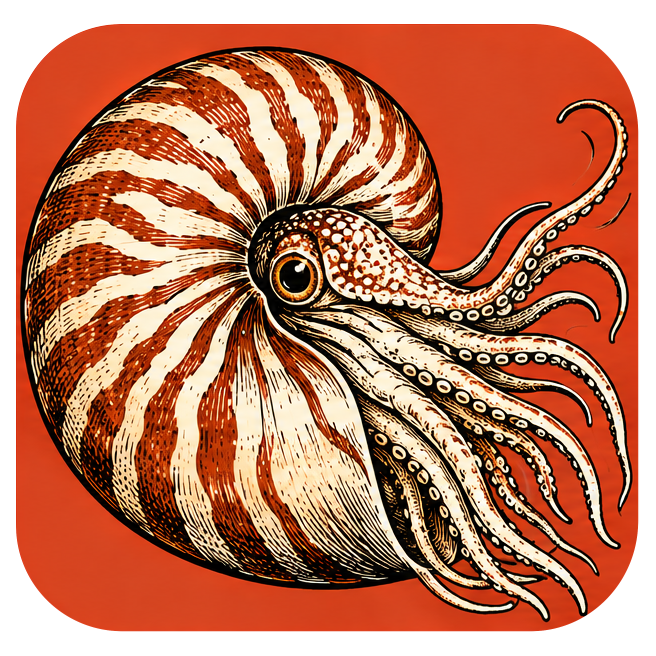
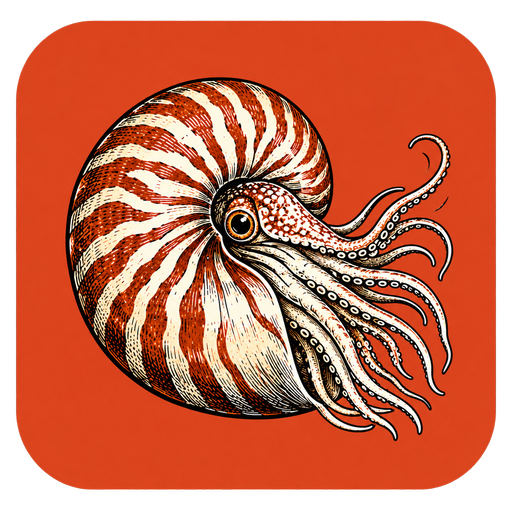
Branding: apply approved corrected ModelStrike artwork

diff --git a/scripts/check_approved_branding.py b/scripts/check_approved_branding.py
@@ -1,0 +1,26 @@
+"""Approved 2026-10-25 branding contract. Requires Pillow; does not modify files."""
+from pathlib import Path
+from hashlib import sha256
+import json
+import unittest
+from PIL import Image
+ROOT = Path(__file__).resolve().parents[1]
+APP = 'ModelStrike'
[1 lines of base64/hex data omitted]
+class ApprovedBranding(unittest.TestCase):
+    def test_exact_approved_source_and_readme(self):
+        p = ROOT / 'assets/branding' / (APP + '.png')
+        self.assertEqual(sha256(p.read_bytes()).hexdigest(), APPROVED)
+        with Image.open(p) as image:
+            self.assertEqual(image.size, (512,512))
+        self.assertIn('assets/branding/' + APP + '.png', (ROOT/'README.md').read_text())
+        self.assertEqual(json.loads((p.parent/'provenance.json').read_text())['sha256'], APPROVED)
+    def test_runtime_derivative_and_binding(self):
+        source = Image.open(ROOT/'assets/branding'/(APP+'.png')).convert('RGBA')
+        raw = ROOT/'assets/branding'/(APP+'-128.rgba')
+        self.assertTrue(raw.exists(), 'runtime derivative absent')
+        self.assertEqual(raw.read_bytes(), source.resize((128,128),Image.Resampling.LANCZOS).tobytes())
+        self.assertIn(APP+'-128.rgba', (ROOT/'src/bin/modelstrike-ui.rs').read_text())
+
+if __name__ == "__main__":
+    unittest.main()

diff --git a/src/bin/modelstrike-ui.rs b/src/bin/modelstrike-ui.rs
@@ -3,7 +3,14 @@ use modelstrike::ui::ModelStrikeApp;
 fn main() -> eframe::Result<()> {
     eframe::run_native(
         "ModelStrike - mesh editor",
-        eframe::NativeOptions::default(),
+        eframe::NativeOptions {
+            viewport: eframe::egui::ViewportBuilder::default().with_icon(eframe::egui::IconData {
+                rgba: include_bytes!("../../assets/branding/ModelStrike-128.rgba").to_vec(),
+                width: 128,
+                height: 128,
+            }),
+            ..Default::default()
+        },
         Box::new(|_| Ok(Box::new(ModelStrikeApp::default()))),
     )
 }

diff --git a/scripts/generate_brand_icon.py b/scripts/generate_brand_icon.py
@@ -1,0 +1,7 @@
+"""Resize the full approved canvas, retaining proportions, centering and padding."""
+from pathlib import Path
+from PIL import Image
+ROOT = Path(__file__).resolve().parents[1]
+APP = 'ModelStrike'
+image = Image.open(ROOT/'assets/branding'/(APP+'.png')).convert('RGBA')
+(ROOT/'assets/branding'/(APP+'-128.rgba')).write_bytes(image.resize((128,128),Image.Resampling.LANCZOS).tobytes())

diff --git a/README.md b/README.md
@@ -1,5 +1,5 @@
 <p align="center">
-  <img src="assets/branding/ModelStrike.png" alt="Original ModelStrike nautilus logo" width="160" height="160">
+  <img src="assets/branding/ModelStrike.png" alt="Approved ModelStrike nautilus logo" width="160" height="160">
 </p>
 
 <h1 align="center">ModelStrike</h1>
